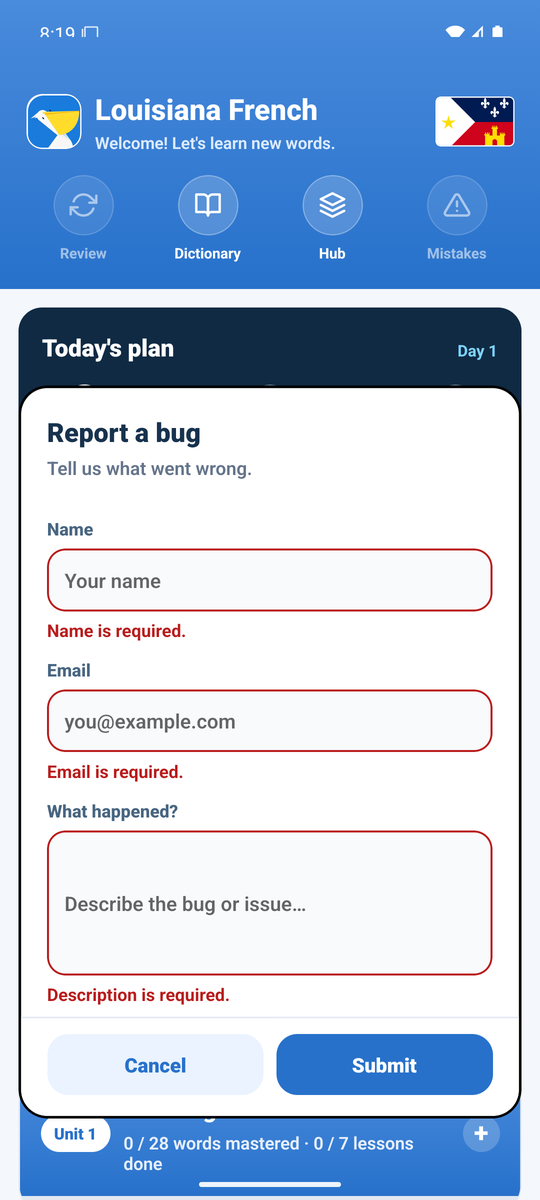
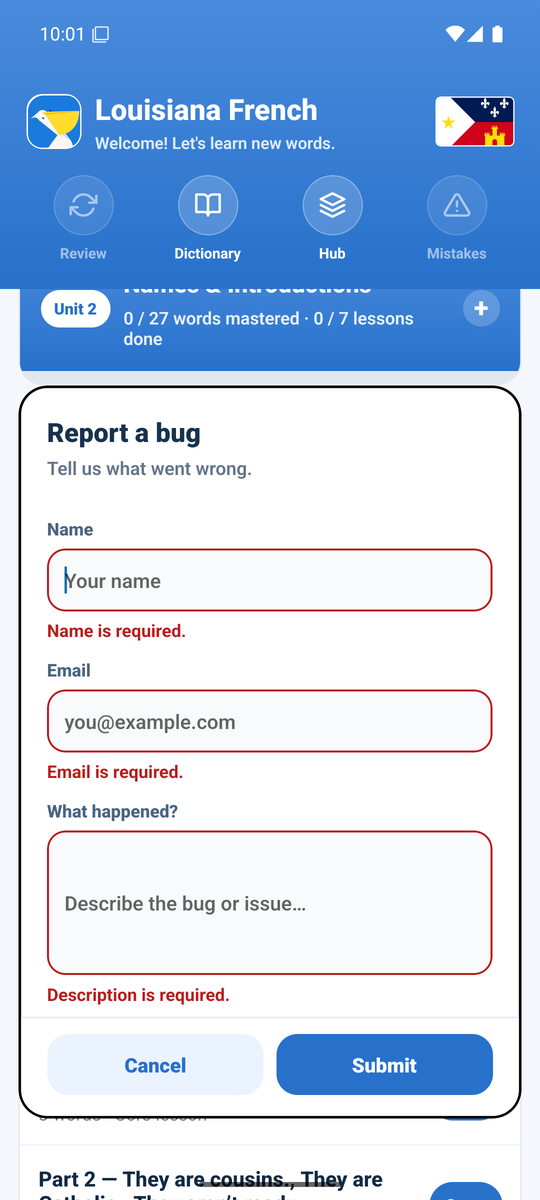
docs(verify-app): re-drive the secondary recipes on emulator-5580
Replace the preface shots with a real Close and a real re-open, and keep the day-2, Dictionary, unit-list, and bug-report evidence on the new testIDs. Accept and send stays untapped.

diff --git a/docs/evidence/BIO-9/README.md b/docs/evidence/BIO-9/README.md
@@ -1,32 +1,37 @@
 # BIO-9 — secondary verify-app recipes
 
-Android only, emulator-5580 (`lf-api35`). Shots are half the emulator size (540×1200). Preface, Dictionary speech, the Unit list, and bug-report consent were driven on one cold `lfv up`. Day 2+ was a second cold `lfv up`. `lfv doctor` passed before driving. `lfv down` ran after. emulator-5554 was not used.
+Android only, emulator-5580 (`lf-api35`). Re-driven after merging main `30e0b835c9aae7b7427827624bb086db6c4f1e0a`. Shots are half the emulator size (540×1200). `lfv doctor` passed before each cold `lfv up`. `lfv down` ran after, and emulator-5580 was free. emulator-5554 was not used.
+
+The day-2 run moved the clock with `adb root` and `adb shell date` on emulator-5580 only. It was restored with `settings put global auto_time 1` and `auto_time_zone 1`, then `$L open`. The emulator clock returned to the host date.
 
 | File | What was clicked | What it shows |
 | --- | --- | --- |
-| preface-01-summary.png | Unit 6 Part 1, `Three ways to say ‘they are’` | Preface summary, terms, Learn more, Start lesson |
+| home.png | Language choice, Louisiana French | Fresh Home |
+| about-menu.png | `id:home-pelican` | About menu, About Us and Support |
+| preface-01-summary.png | Unit 6 Part 1 | Preface summary |
 | preface-02-details.png | `desc:Learn more` | Why are there several forms? |
-| preface-03-after-close.png | `desc:Close preface` | Activity `1 / 10`, `ils sont`. The note is not marked read |
-| preface-05-after-start.png | `desc:Start lesson` | Same Activity, header `Unit note` |
-| preface-06-read-skipped.png | The same row again | Activity opens. The preface stays read |
+| preface-03-after-close.png | `desc:Close preface` | Activity `1 / 10`, `ils sont` |
+| preface-04-overlay-after-close.png | Back, then the same row | The preface overlay is back. Close did not mark it read |
+| preface-05-after-start.png | `desc:Start lesson` on that overlay | Activity `1 / 10` and `Unit note` |
+| preface-06-read-skipped.png | Back to Home, then the same row again | The Activity opens. The preface stays read |
 | preface-07-unit-note.png | `desc:Unit note` | Reference mode, `Back to lesson` |
-| dict-01-search-merci.png | Search `merci` | Thank you, Merci Madame Boudreaux, and Merci beaucoup. Not one card |
-| dict-03-speech-lf.png | `desc:Practice` on `avoir` | Advanced French Hub for that one Word, with Back |
+| dict-01-search-merci.png | Search `merci` | Three cards, not one |
+| dict-03-speech-lf.png | `desc:Practice` on `avoir` | `id:speech-practice-hub` for that Word, with Back. Record was not tapped |
 | dict-04-back-lf.png | `id:advanced-back-button` | French Dictionary still searching `avoir` |
 | dict-06-speech-kv.png | `desc:Practice` on `Bonjou` | Advanced Kouri-Vini Hub, phrase Bonjou |
 | unit-01-lesson-open.png | Unit 1 row Part 1 | Lesson `1 / 15`, Bonjour!, no preface |
-| unit-02-later-lesson.png | Unit 1 row Part 2 | That Lesson opens at `1 / 15`. The row is not locked |
+| unit-02-later-lesson.png | Unit 1 row Part 2 | That Lesson opens. The row is not locked |
 | unit-kv-lesson.png | Kouri-Vini Unit 1 Part 1 | `1 / 15`, Bonjou, no preface |
-| day2-02-review-due.png | Home after Unit 6 Part 1 and a two-day clock move | `0 of 3 done`, `Start Daily Review · ~3 min`, `Review, 7 due` |
+| day2-02-review-due.png | Home after Unit 6 Part 1 and a two-day clock move | `0 of 3 done`, `Start Daily Review · ~3 min` |
 | day2-07-practice-speech.png | Daily Review finished, then Unit 1 Part 1 finished | `2 of 3 done`, button `Practice Speech` |
-| day2-08-speech-scored.png | `Practice Speech` | Attempt 1/5, Bonjour!, Home, no Back to Dictionary |
-| day2-09-mistakes-pending.png | Skip the Part 2 typing Activity, then Home | `Fix 1 mistake`, step label Mistakes |
-| day2-11-all-done.png | Correct `Ca va mal`, Next Question | `3 of 3 done`, All done with today's plan |
+| day2-08-speech-scored.png | `Practice Speech` | `id:speech-practice-screen`, Attempt 1/5. Record and Stop were not tapped |
+| day2-09-mistakes-pending.png | Skip the Part 2 typing Activity, then Home | `Fix 1 mistake` |
+| day2-11-all-done.png | Correct `Ca va mal` on `id:mistake-review-screen`, Next Question | `3 of 3 done` |
 | day2-12-all-done-reopen.png | `$L open` | The same all-done plan |
 | day2-13-kv-still-day1.png | Language flag | Kouri-Vini is still Day 1 |
-| bug-03-validation-keyboard-closed.png | Empty Submit, then Back to close the keyboard | Name, Email, and Description are required |
+| bug-03-validation-keyboard-closed.png | Empty Submit, then Back | Name, Email, and Description are required |
 | bug-06-consent.png | Filled Submit | Share device info? Accept & send was not tapped |
 
 Not run: Accept & send. It would open a real mailto to louisianafrenchsupport@gmail.com.
 
-Not verified: the full day-2 Lesson-and-clock path in Kouri-Vini. After the Louisiana French plan was all done, Kouri-Vini was still Day 1. iOS was not driven.
+Not verified: the full day-2 Lesson-and-clock path in Kouri-Vini. Stopping or re-tapping Record on Speech Practice (`id:speech-practice-stop` was not driven). iOS was not driven.
